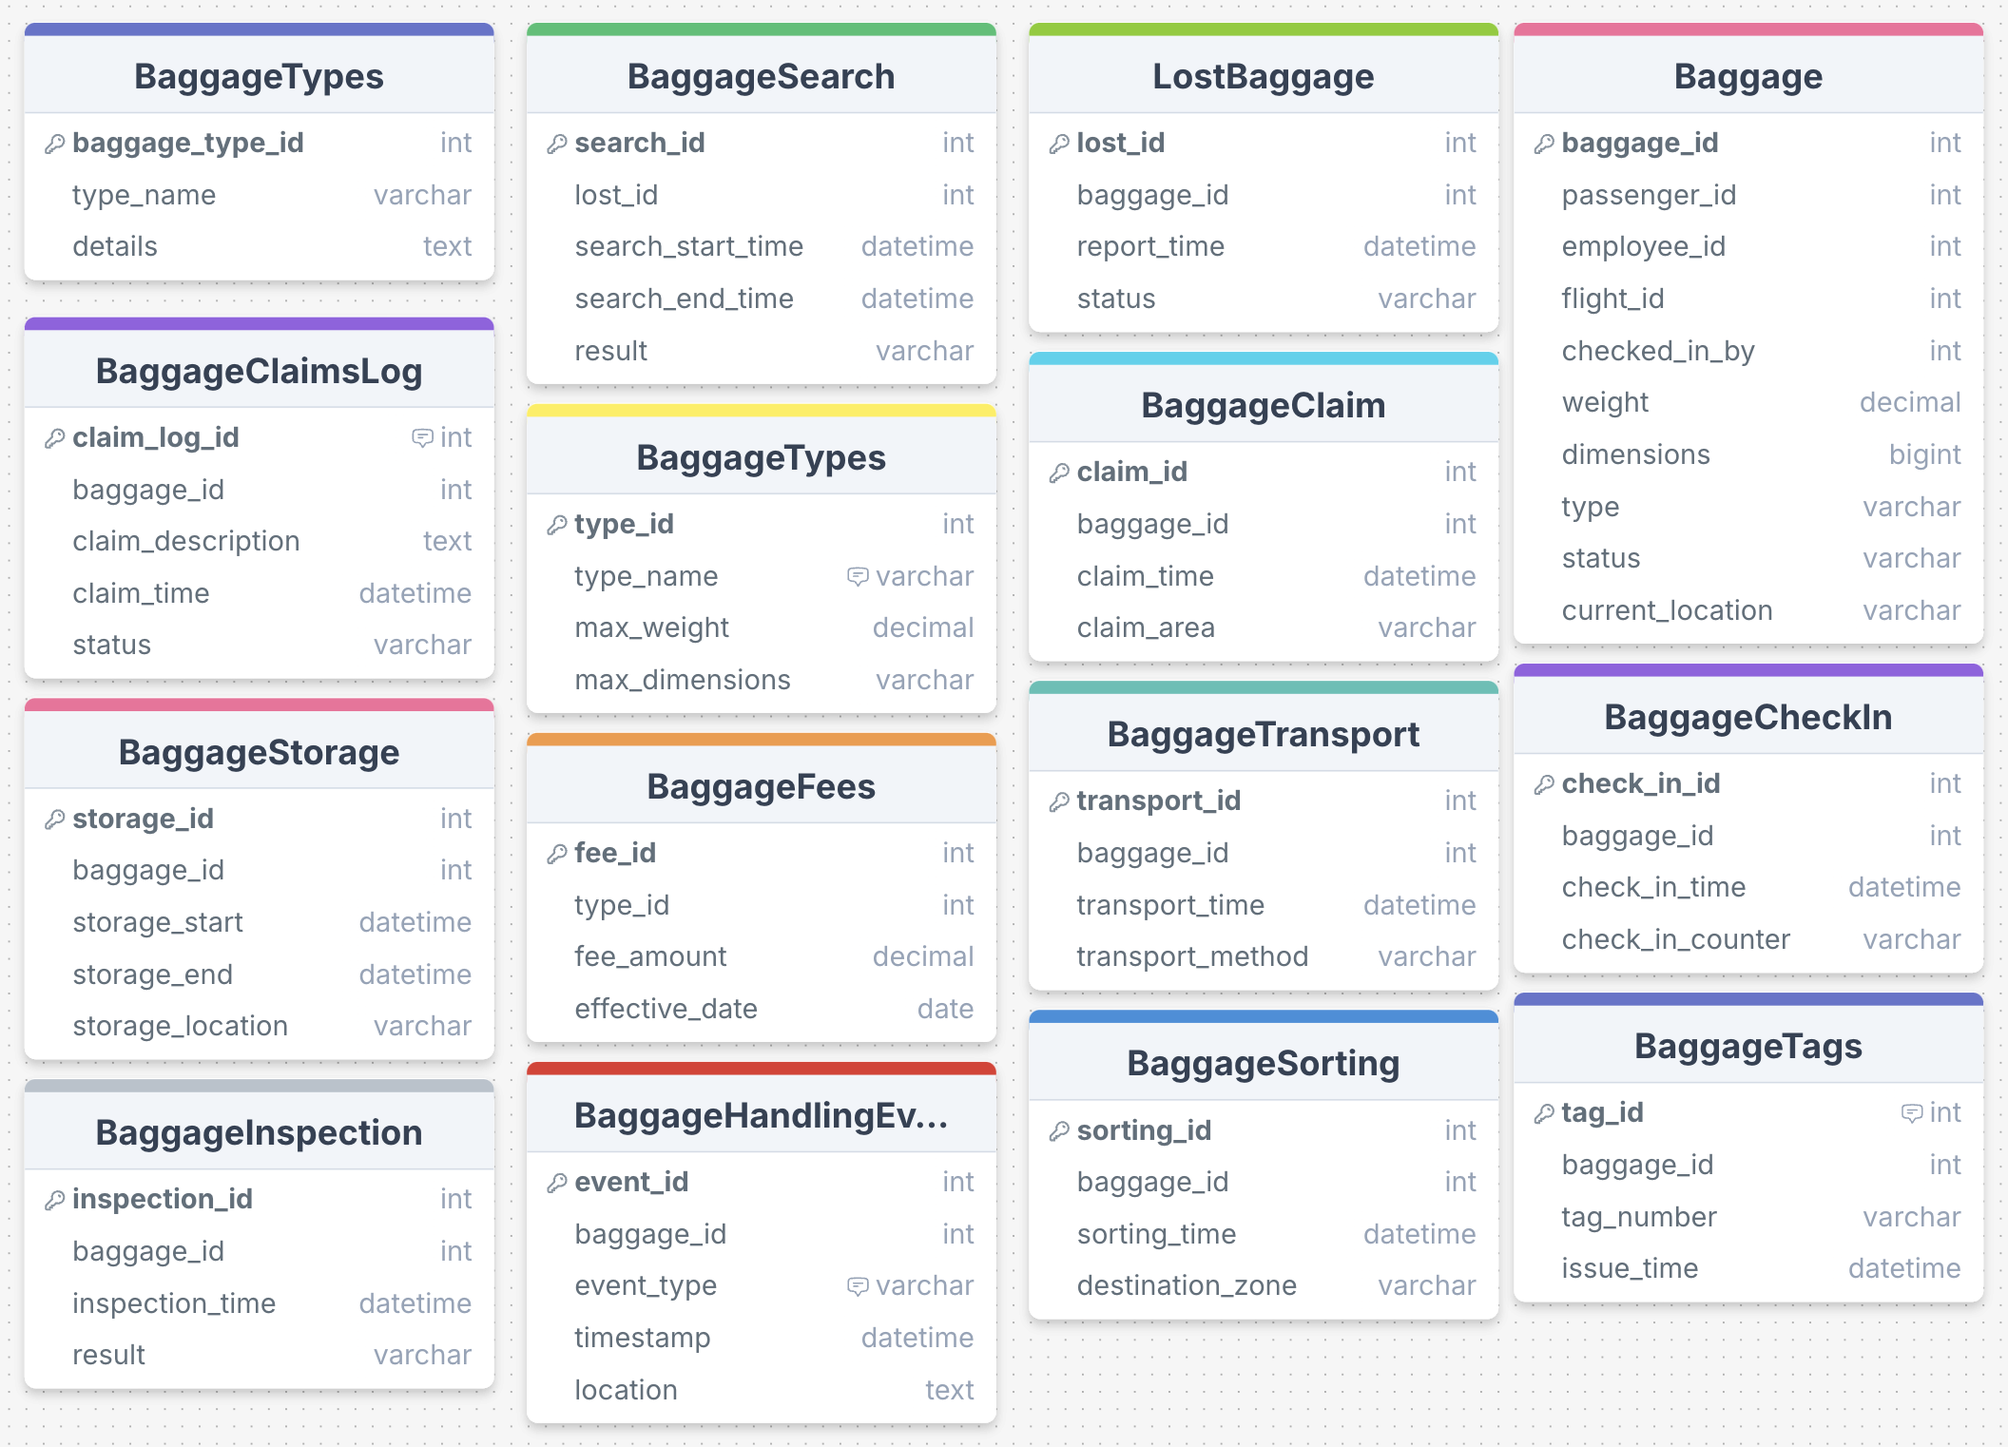
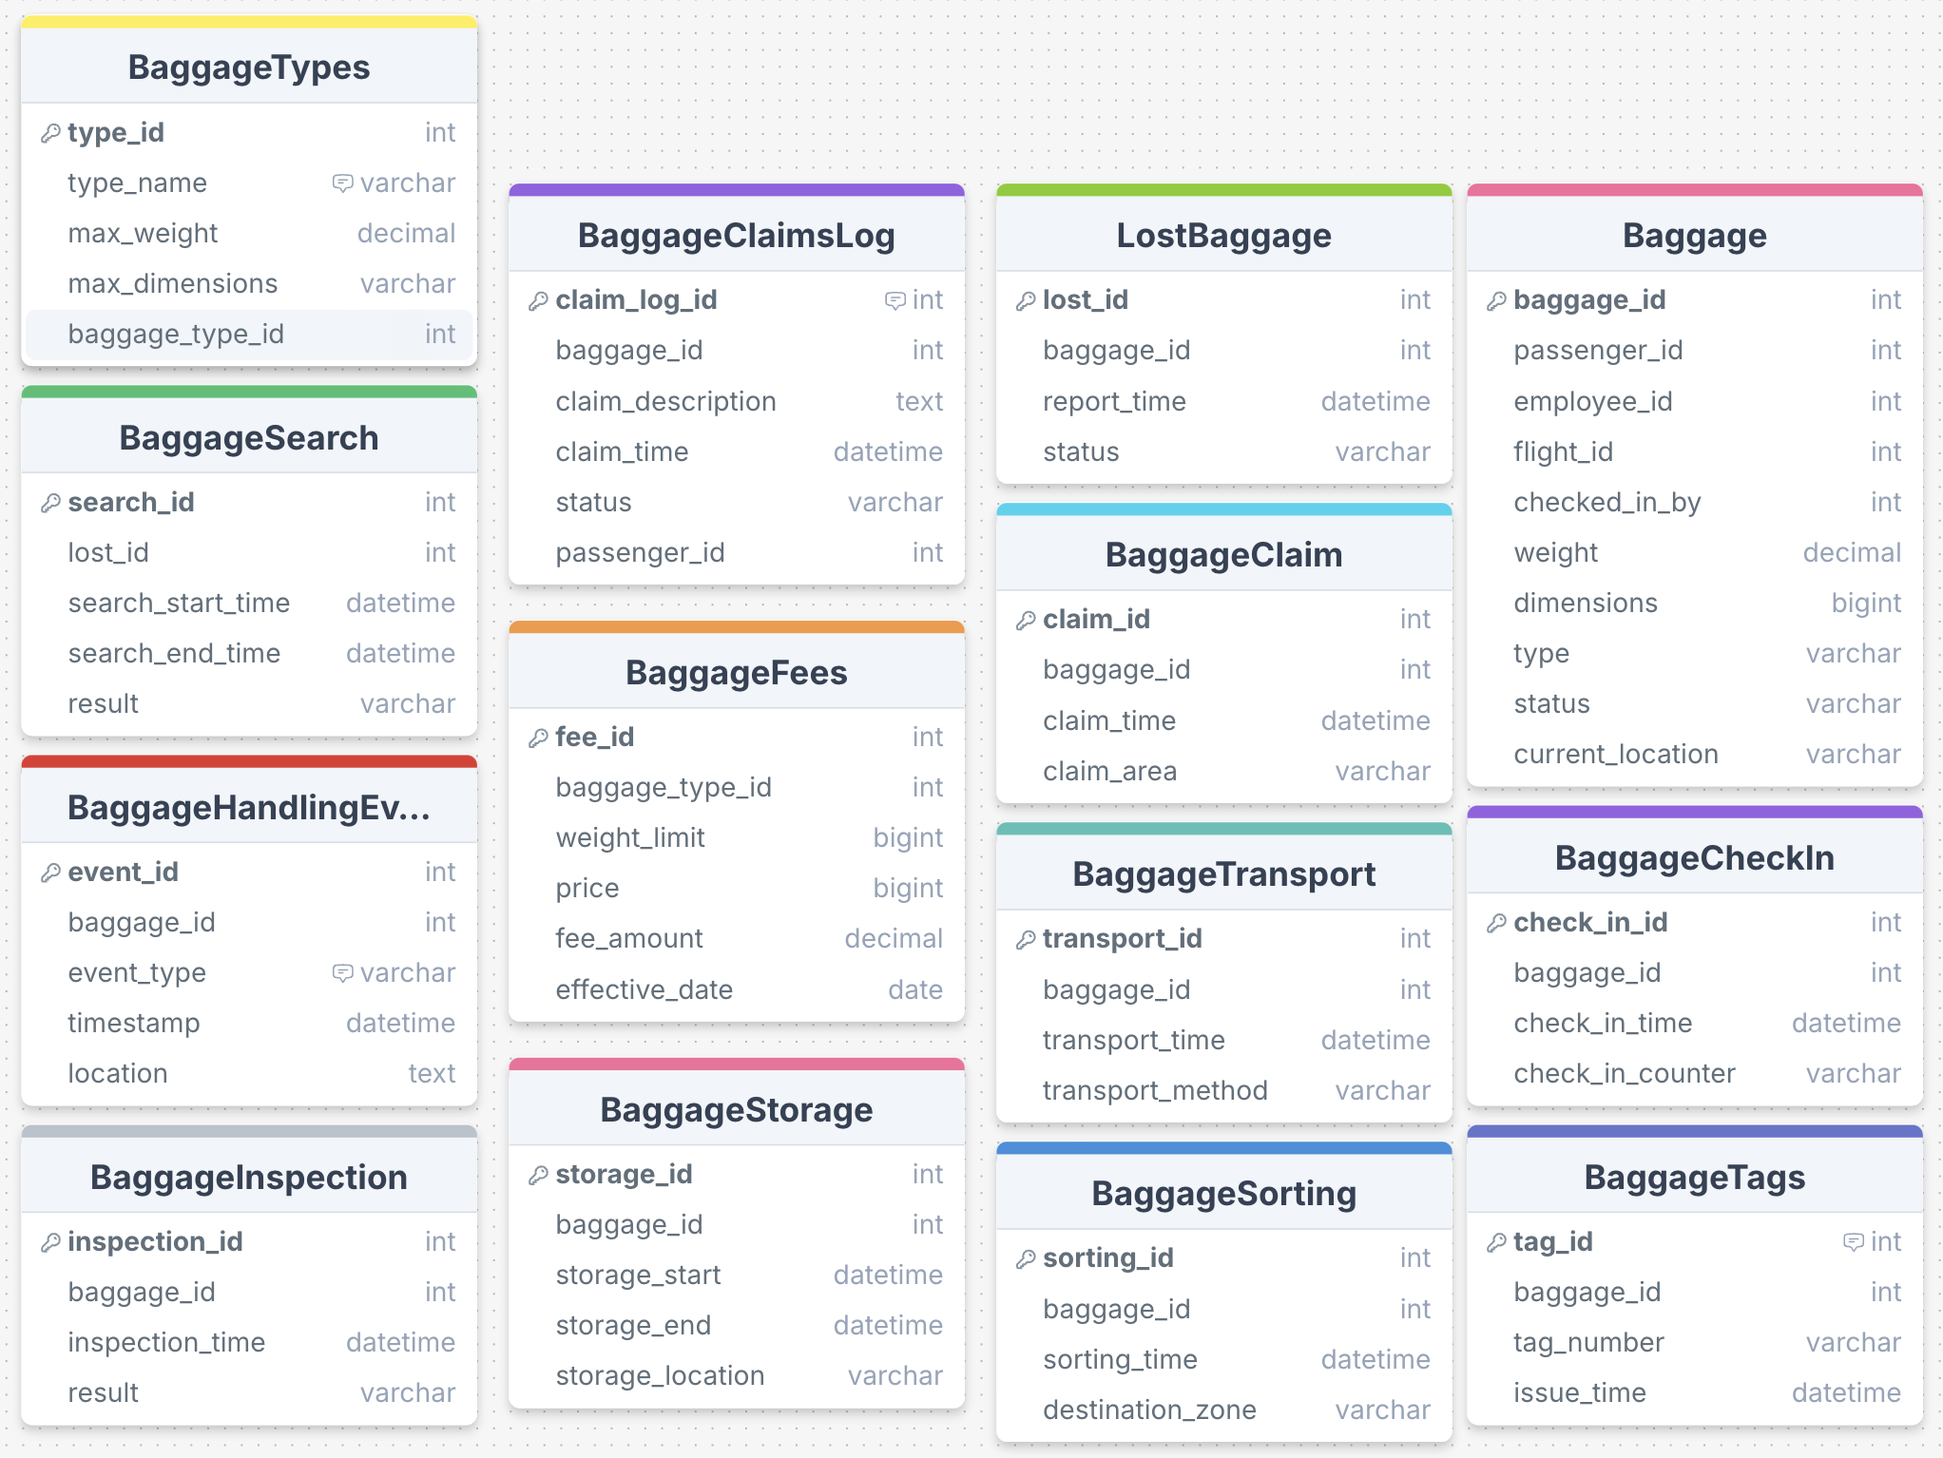
baggage

Changed region(s): [[0.0, 0.0, 0.9863, 1.0]]

diff --git a/airport/baggage/README.md b/airport/baggage/README.md
@@ -49,14 +49,12 @@
         claim_area	VARCHAR(100)	Зона видачі багажу
 
 7. LostBaggage (Втрачений багаж)
-    
     lost_id	INT PRIMARY KEY	Унікальний ідентифікатор втраченого багажу
     baggage_id	INT	Зовнішній ключ до таблиці Baggage
     report_time	DATETIME	Час повідомлення про втрату
     status	VARCHAR(50)	Стан пошуку (наприклад, в пошуку, знайдено)
 
 8. BaggageSearch (Пошук багажу)
-        
         search_id	INT PRIMARY KEY	Унікальний ідентифікатор пошуку
         lost_id	INT	Зовнішній ключ до таблиці LostBaggage
         search_start_time	DATETIME	Час початку пошуку
@@ -64,17 +62,20 @@
         result	VARCHAR(100)	Результат пошуку (наприклад, знайдено, не знайдено)
 
 9. BaggageTypes (Типи багажу)
-        
         type_id	INT PRIMARY KEY	Унікальний ідентифікатор типу багажу
         type_name	VARCHAR(100)	Назва типу (наприклад, ручна поклажа, валіза, спортивне обладнання)
+        max_dimensions
         max_weight	DECIMAL(5,2)	Максимальна вага (кг)
+        baggage_type_id (ID типу багажу)        
 
-10. BaggageFees (Тарифи за багаж)
-        
+10. BaggageFees (Тарифи за багаж)(FINANCE department?) 
         fee_id	INT PRIMARY KEY	Унікальний ідентифікатор тарифу
-        type_id	INT	Зовнішній ключ до таблиці BaggageTypes
+        baggage_type_id (ID типу багажу, Зовнішній ключ до таблиці BaggageTypes)
+        weight_limit (Ліміт ваги)
+        price (Ціна)
         fee_amount	DECIMAL(10,2)	Сума тарифу
         effective_date	DATE	Дата набуття чинності
+
 
 11. BaggageHandlingEvents (Події з багажем)
         event_id (ID події)
@@ -84,14 +85,12 @@
         location (Місце, де відбулася подія)
 
 12. BaggageInspection (Інспекція багажу)
-        
         inspection_id	INT PRIMARY KEY	Унікальний ідентифікатор інспекції
         baggage_id	INT	Зовнішній ключ до таблиці Baggage
         inspection_time	DATETIME	Час інспекції
         result	VARCHAR(100)	Результат інспекції (наприклад, дозволено, заборонено)
 
 13. BaggageStorage (Зберігання багажу)
-    
     storage_id	INT PRIMARY KEY	Унікальний ідентифікатор зберігання
     baggage_id	INT	Зовнішній ключ до таблиці Baggage
     storage_start	DATETIME	Час початку зберігання
@@ -99,7 +98,6 @@
     storage_location	VARCHAR(255)	Місце зберігання
 
 14. BaggageClaimsLog (Логи претензій щодо багажу/Заявки про втрачений багаж-LostBaggageClaims)
-    
     claim_log_id	INT PRIMARY KEY	Унікальний ідентифікатор логу претензій
     baggage_id	INT	Зовнішній ключ до таблиці Baggage
     passengere_id
@@ -107,18 +105,7 @@
     claim_time	DATETIME	Час подання претензії
     status	VARCHAR(50)	Стан претензії (наприклад, розглядається, вирішено,знайдено, не знайдено)
 
-15. BaggageTypes (Типи багажу)
-        baggage_type_id (ID типу багажу)
-        type_name (Назва типу багажу, наприклад, валіза, сумка, спортивний інвентар)
-
-(FINANCE department?) 
-16. BaggageFees (Тарифи за багаж)
-        fee_id (ID тарифу)
-        baggage_type_id (ID типу багажу)
-        weight_limit (Ліміт ваги)
-        price (Ціна)
-
-18. (SERVICESandSTAFF?) BaggageHandlingEquipment (Обладнання для обробки багажу):
+15. (SERVICESandSTAFF?) BaggageHandlingEquipment (Обладнання для обробки багажу):
     equipment_id (ID обладнання)
     equipment_type (Тип обладнання: конвеєр, сканер тощо)
     location (Місцезнаходження обладнання)
@@ -138,3 +125,118 @@
  BaggageStorage (Зберігання багажу)
  BaggageClaimsLog 
  ----------------
+
+Baggage
+BaggageCheckIn
+BaggageTags
+BaggageTransport
+BaggageClaim
+LostBaggage
+BaggageSearch
+BaggageFees
+BaggageHandlingEvents
+BaggageInspection
+BaggageStorage
+BaggageClaimsLog
+BaggageTypes
+BaggageHandlingEquipment
+
+-------
+
+Основні процеси:
+Реєстрація багажу:
+
+Пасажир реєструє багаж під час check-in.
+Багажу присвоюється унікальний ідентифікатор.
+
+Сортування та транспортування:
+        Багаж сортується за рейсами та транспортується до відповідного літака.
+
+Видача багажу:
+        Багаж видається пасажиру після прибуття рейсу.
+
+Пошук втраченого багажу:
+        Якщо багаж втрачено, ініціюється процес пошуку.
+
+Інспекція та зберігання:
+        Багаж може проходити інспекцію або тимчасово зберігатися.
+
+Обробка претензій:
+        Пасажир може подати претензію щодо багажу.
+
+Зв'язки між таблицями:
+1. Baggage (Багаж)
+Зв'язок один до одного:
+
+З BaggageCheckIn: Кожен багаж реєструється один раз.
+З BaggageTags: Кожен багаж має одну бірку.
+З BaggageTypes: Кожен багаж належить до одного типу.
+
+Зв'язок один до багатьох:
+        З BaggageTransport: Багаж може транспортуватися кілька разів.
+        З BaggageHandlingEvents: Багаж може мати кілька подій обробки.
+        З BaggageInspection: Багаж може проходити інспекцію кілька разів.
+        З BaggageStorage: Багаж може зберігатися кілька разів.
+        З BaggageClaimsLog: Багаж може мати кілька претензій.
+
+2. BaggageCheckIn (Реєстрація багажу)
+Зв'язок багато до одного:
+        З Baggage: Кожна реєстрація пов'язана з одним багажем.
+
+3. BaggageTags (Бірки багажу)
+Зв'язок багато до одного:
+        З Baggage: Кожна бірка пов'язана з одним багажем.
+
+4. BaggageTransport (Транспортування багажу)
+Зв'язок багато до одного:
+        З Baggage: Кожне транспортування пов'язане з одним багажем.
+        З BaggageHandlingEquipment: Кожне транспортування може використовувати одне обладнання.
+
+5. BaggageClaim (Видача багажу)
+Зв'язок багато до одного:
+        З Baggage: Кожна видача пов'язана з одним багажем.
+
+6. LostBaggage (Втрачений багаж)
+Зв'язок багато до одного:
+        З Baggage: Кожен втрачений багаж пов'язаний з одним багажем.
+
+7. BaggageSearch (Пошук багажу)
+Зв'язок багато до одного:
+        З LostBaggage: Кожен пошук пов'язаний з одним втраченим багажем.
+
+8. BaggageFees (Тарифи за багаж)
+Зв'язок багато до одного:
+        З BaggageTypes: Кожен тариф пов'язаний з одним типом багажу.
+
+9. BaggageHandlingEvents (Події обробки багажу)
+Зв'язок багато до одного:
+        З Baggage: Кожна подія пов'язана з одним багажем.
+        З BaggageHandlingEquipment: Кожна подія може використовувати одне обладнання.
+
+10. BaggageInspection (Інспекція багажу)
+        Зв'язок багато до одного:
+        З Baggage: Кожна інспекція пов'язана з одним багажем.
+
+11. BaggageStorage (Зберігання багажу)
+        Зв'язок багато до одного:
+        З Baggage: Кожне зберігання пов'язане з одним багажем.
+
+12. BaggageClaimsLog (Логи претензій щодо багажу)
+        Зв'язок багато до одного:
+        З Baggage: Кожна претензія пов'язана з одним багажем.
+
+13. BaggageTypes (Типи багажу)
+
+Зв'язок один до багатьох:
+        З Baggage: Кожен тип багажу може бути пов'язаний з багатьма багажами.
+        З BaggageFees: Кожен тип багажу може мати кілька тарифів.
+        14. BaggageHandlingEquipment (Обладнання для обробки багажу)
+Зв'язок один до багатьох:
+        З BaggageTransport: Одне обладнання може використовуватися для багатьох транспортувань.
+        З BaggageHandlingEvents: Одне обладнання може використовуватися для багатьох подій обробки.
+
+Візуалізація зв'язків:
+        Baggage є центральною таблицею, яка пов'язана з більшістю інших таблиць.
+
+        BaggageTypes та BaggageHandlingEquipment є довідковими таблицями, які використовуються для класифікації багажу та обробки.
+        LostBaggage та BaggageSearch пов'язані між собою для обробки втраченого багажу.

diff --git a/airport/README.md b/airport/README.md
@@ -124,7 +124,6 @@ Small regional airport
 
 -----------------------
 
-
 deep research
 https://www.researchgate.net/publication/221138246_AGILE_Software_Architecture_for_Mobility
 
@@ -156,8 +155,6 @@ Heathrow Airport
 Високого рівня: Мають широкий спектр послуг, включаючи магазини, ресторани, готелі тощо.
 Середнього рівня: Пропонують базовий набір послуг.
 Низького рівня: Обмежені за кількістю та якістю послуг.
-За типом власності:
-Державні: Належать державі.
-Приватні: Належать приватним компаніям.
+За типом власності: Державні, Приватні.
 Важливо зазначити: часто аеропорти можуть поєднувати в собі кілька характеристик. Наприклад, великий міжнародний 
 аеропорт може бути як державним, так і приватним, і одночасно обслуговувати пасажирські та вантажні рейси.
